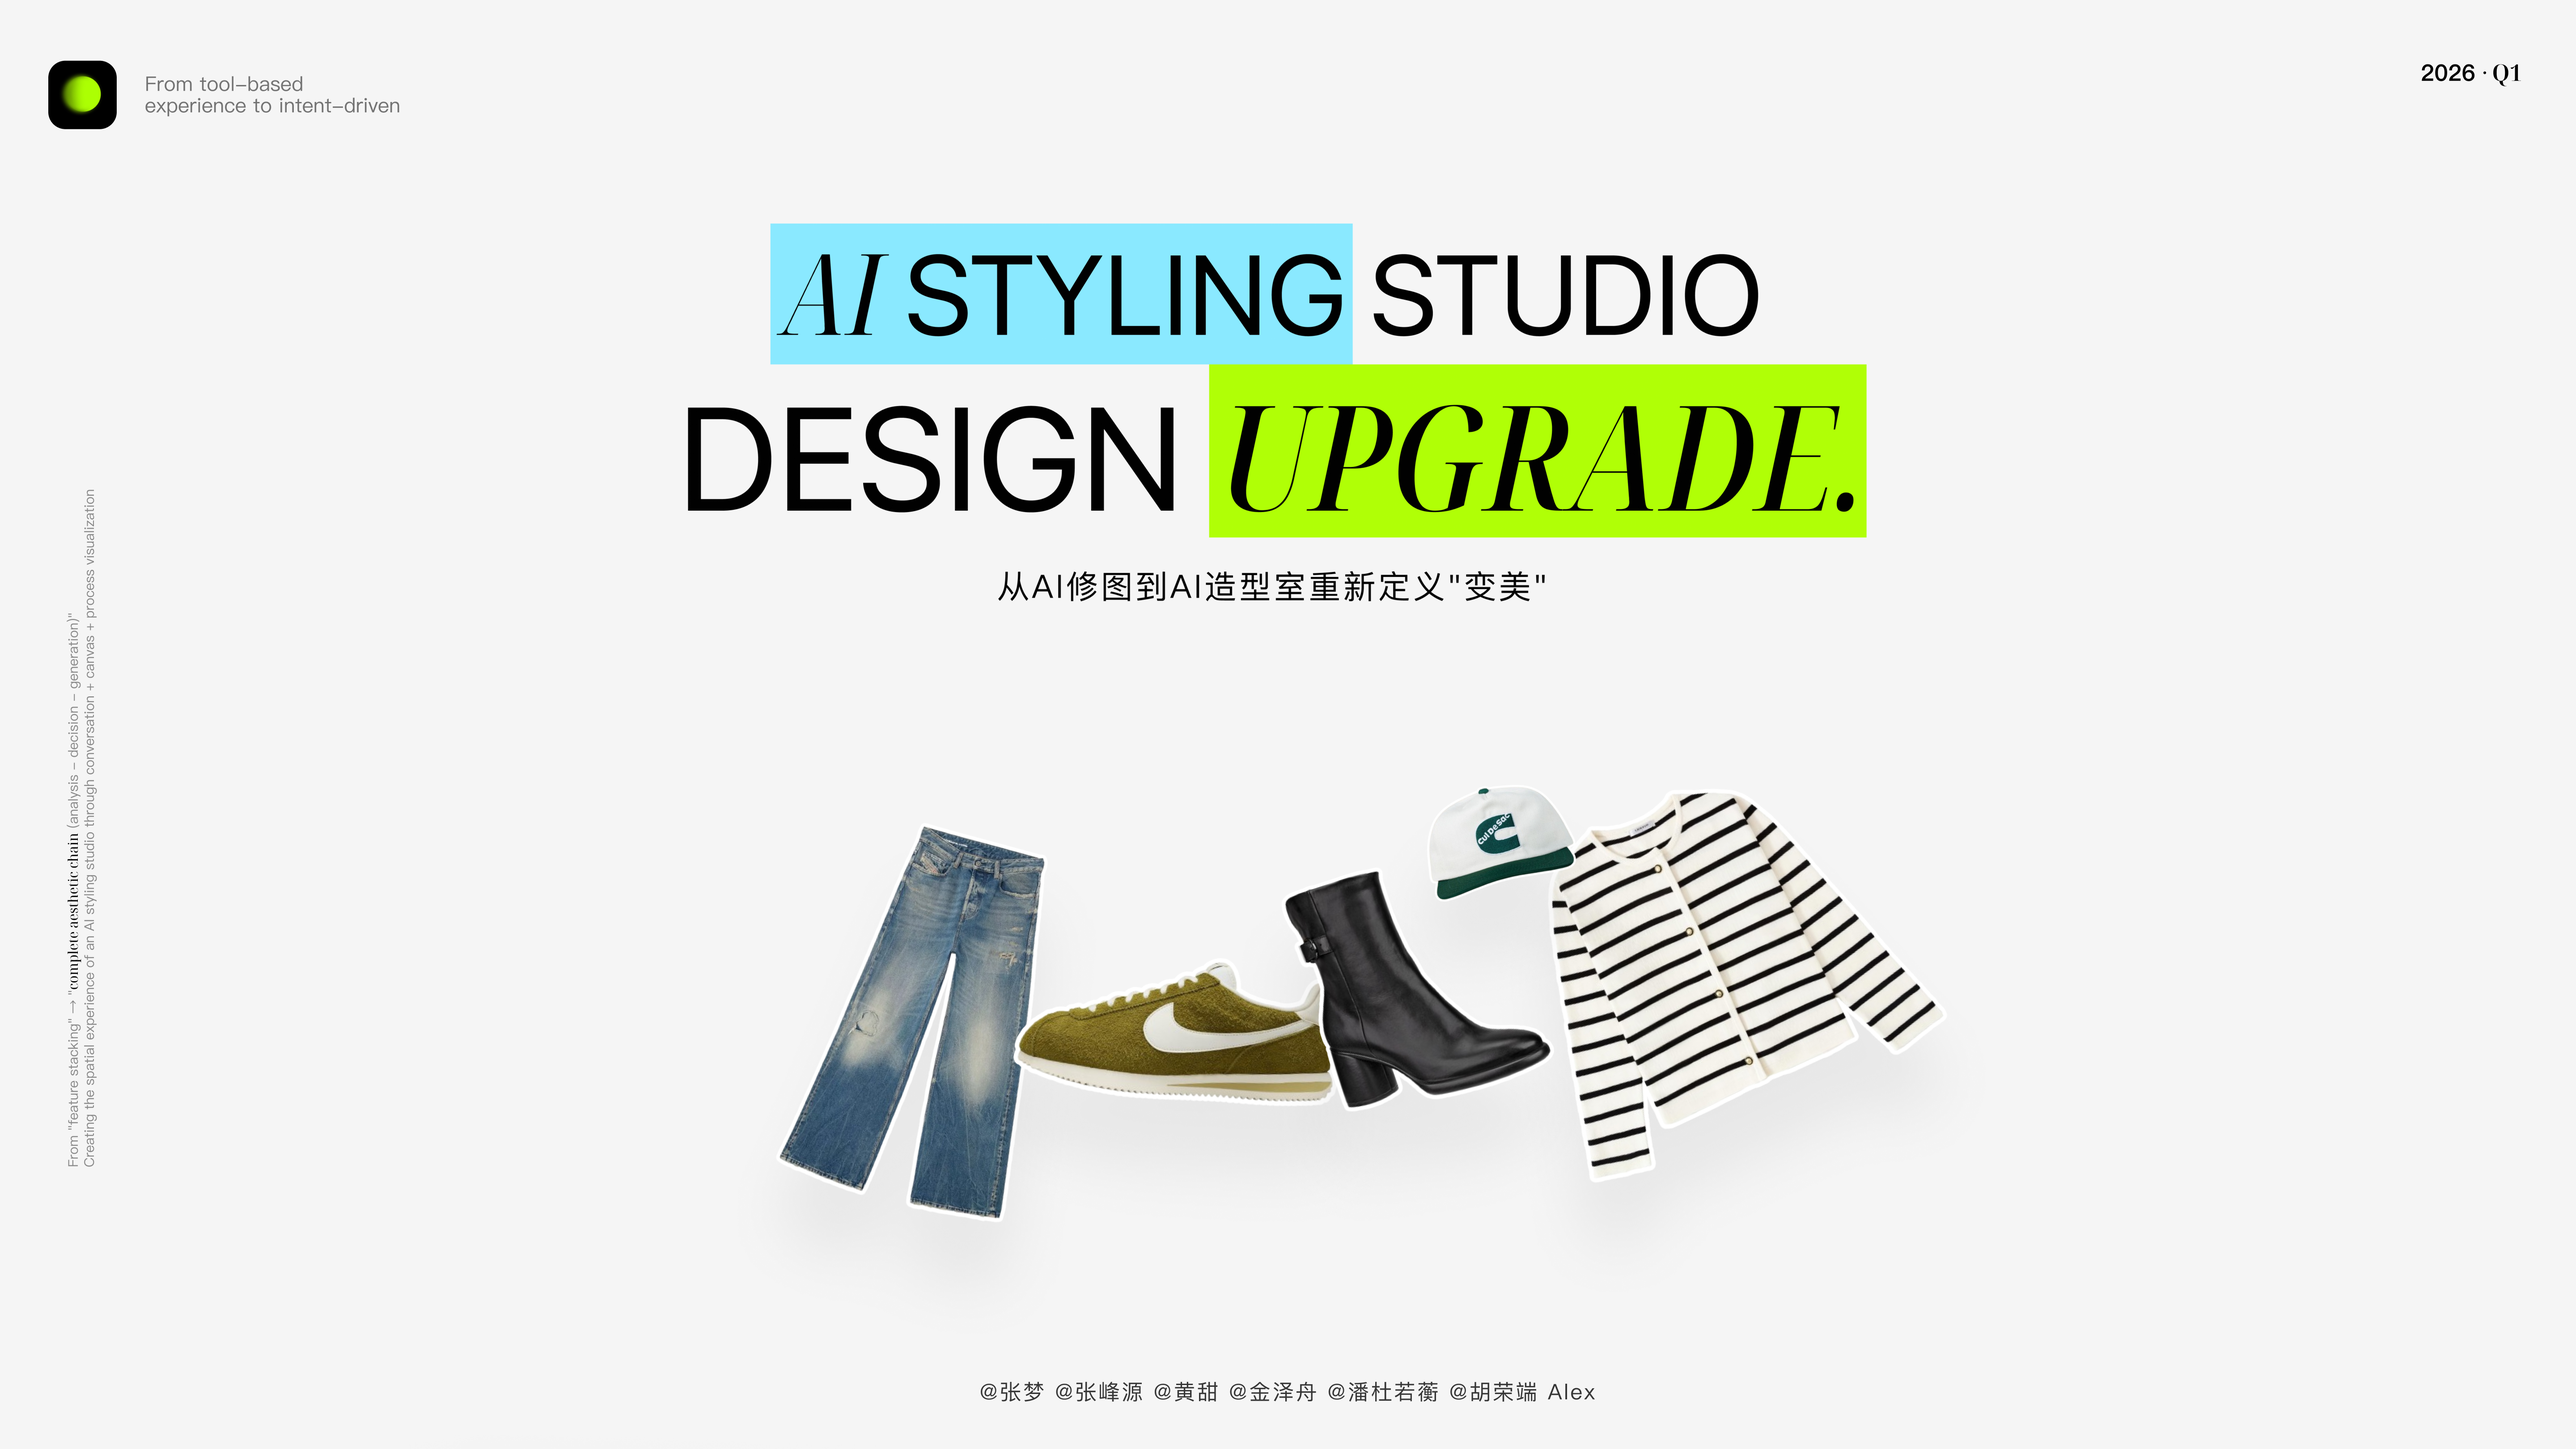
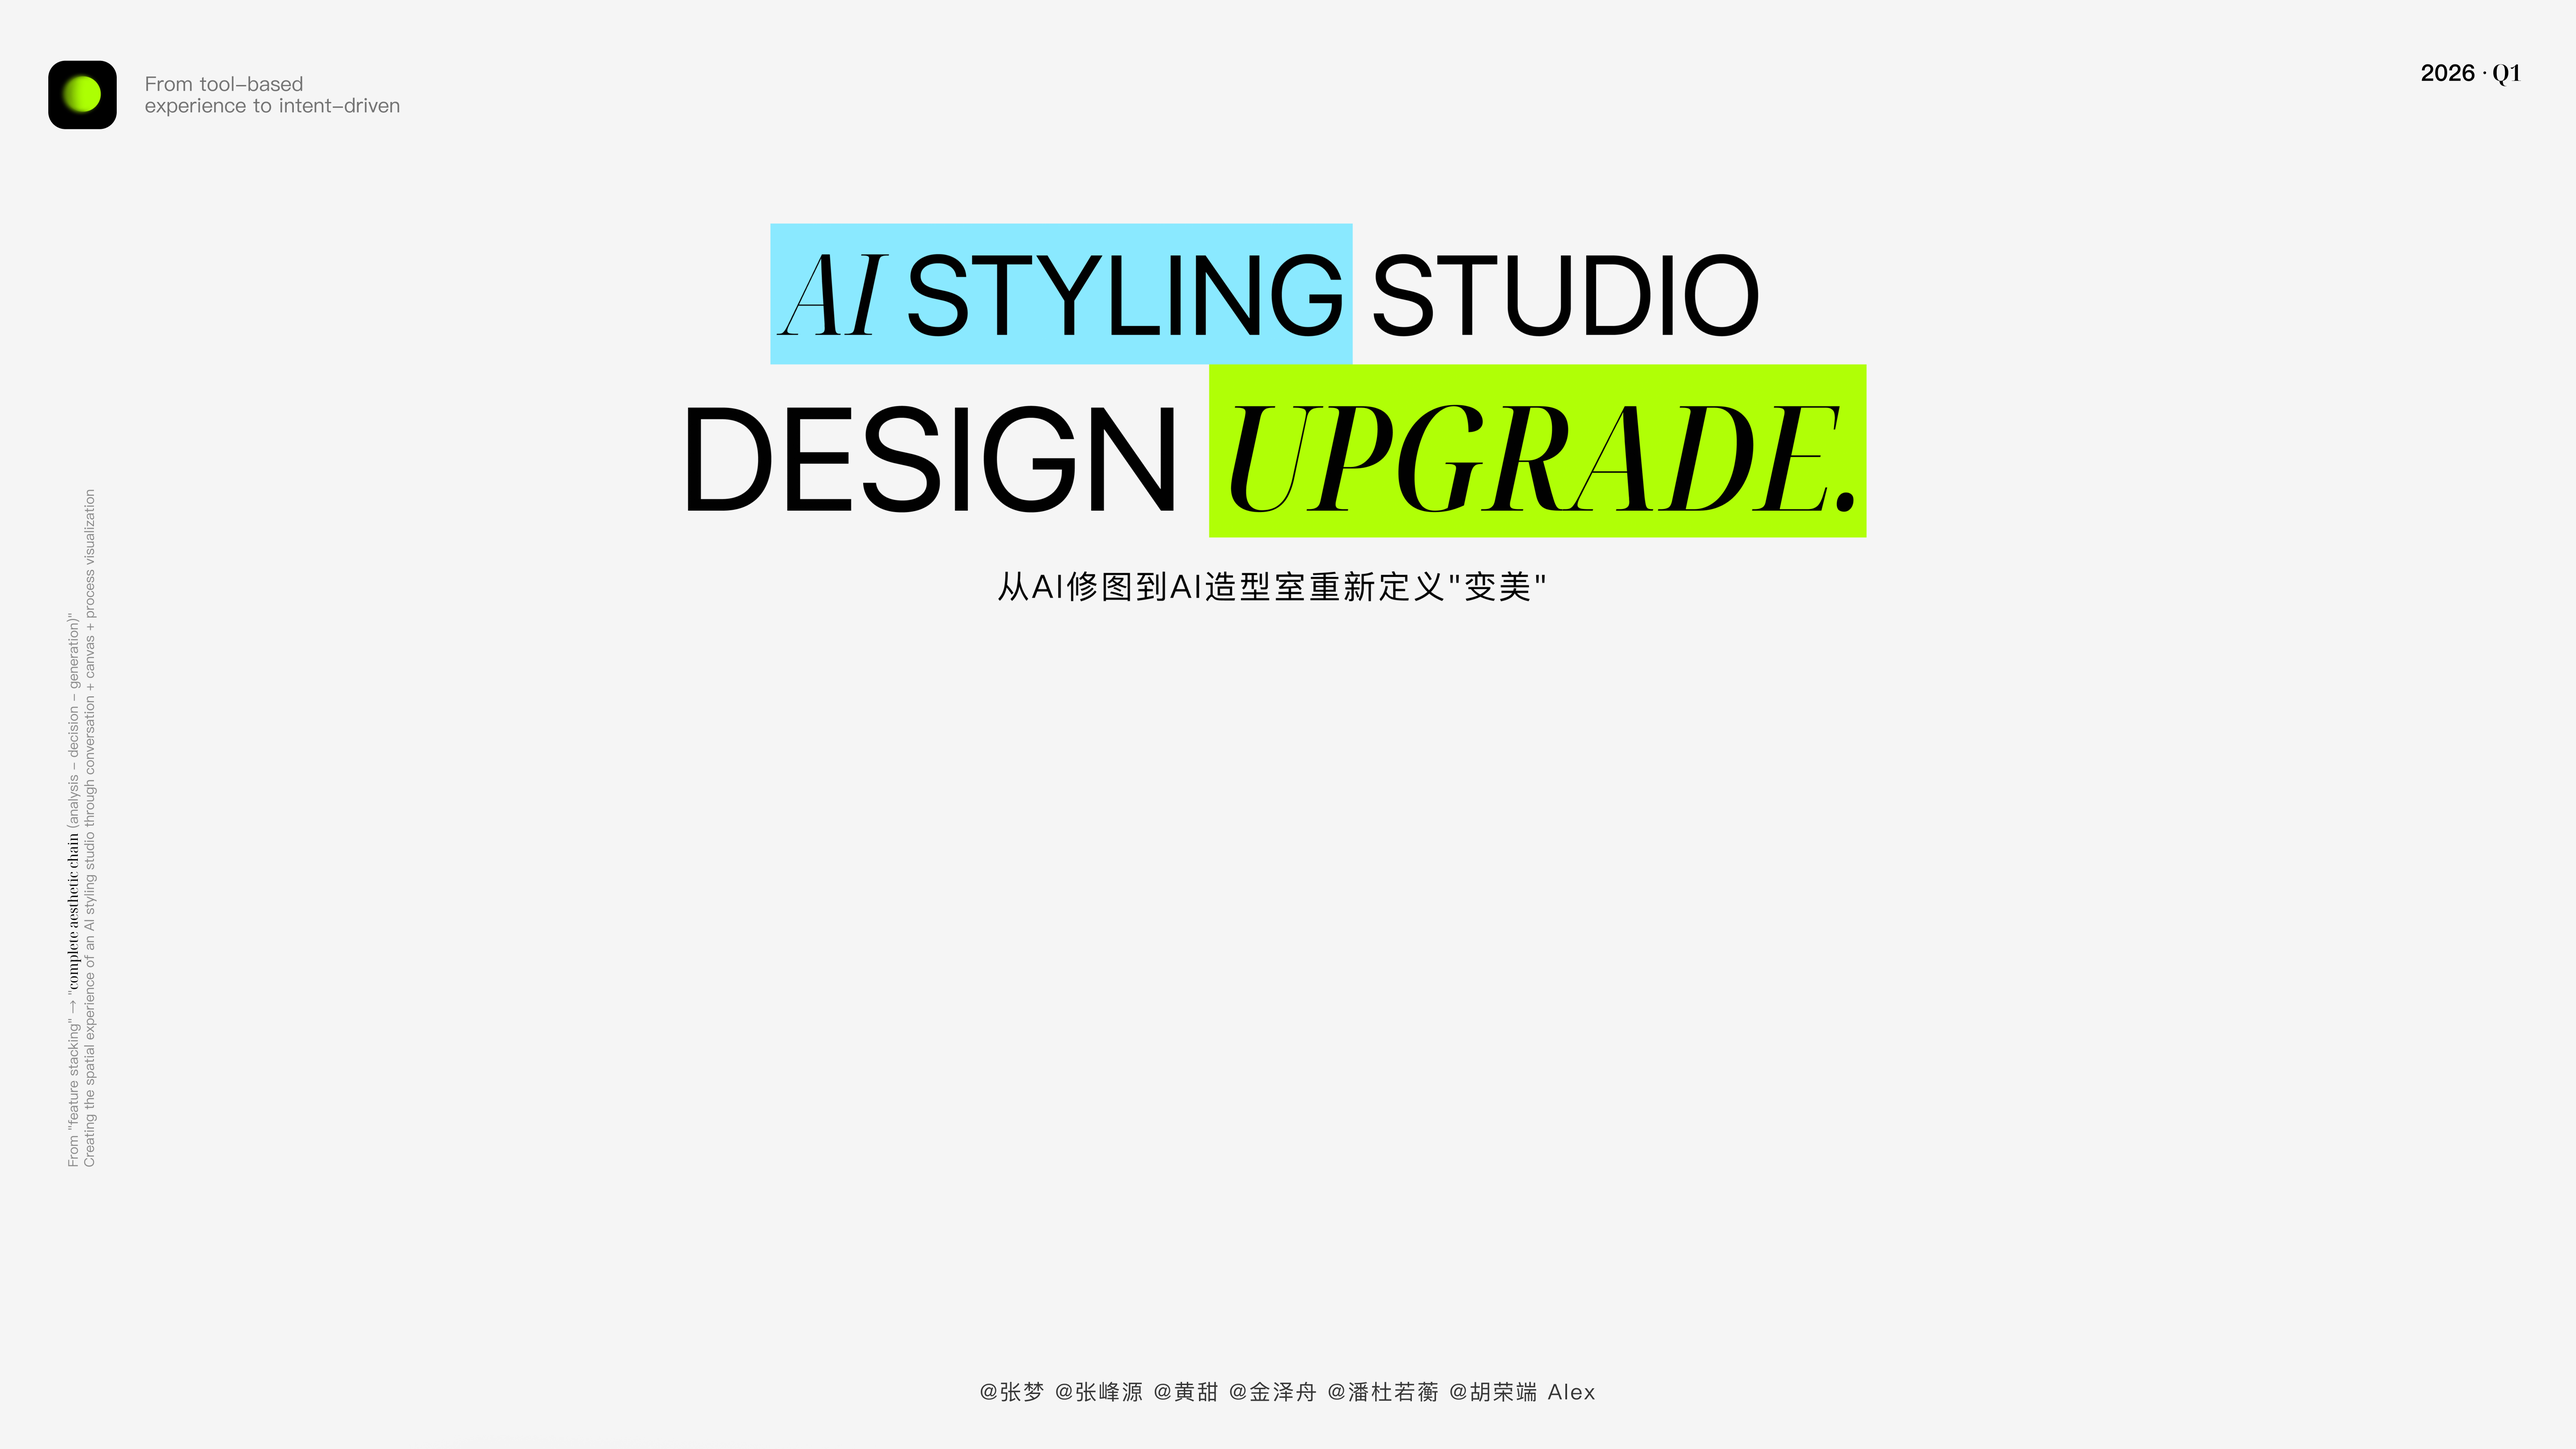
Refine hero styling and product collage

Changed region(s): [[0.2812, 0.5299, 0.75, 0.8417]]

diff --git a/index.html b/index.html
@@ -165,7 +165,7 @@
       opacity: 0;
       animation: fadeUp 0.9s var(--ease) 0.45s forwards;
       width: min(660px, 100%);
-      margin: var(--space-xxl) auto 0;
+      margin: var(--space-xl) auto 0;
       min-height: 700px;
       display: flex;
       align-items: center;
@@ -212,6 +212,9 @@
     .hero-desc-body-line {
       display: block;
       text-align: center;
+    }
+    .hero-desc-segment.is-pending {
+      opacity: 0;
     }
     .hero-desc-typed-line {
       display: block;
@@ -358,6 +361,87 @@
         opacity 0.78s cubic-bezier(0.22, 1, 0.36, 1),
         transform 0.95s cubic-bezier(0.22, 1, 0.36, 1);
     }
+    .hero-demo-objects {
+      position: absolute;
+      left: 50%;
+      bottom: 8.5%;
+      z-index: 2;
+      display: flex;
+      align-items: flex-end;
+      justify-content: center;
+      gap: 0;
+      width: min(88vw, 1280px);
+      transform: translateX(-50%) translateY(24px);
+      opacity: 0;
+      pointer-events: none;
+      transition:
+        opacity 0.75s cubic-bezier(0.22, 1, 0.36, 1),
+        transform 0.85s cubic-bezier(0.22, 1, 0.36, 1);
+    }
+    .hero-demo-object {
+      position: relative;
+      flex: 0 0 auto;
+      pointer-events: auto;
+      transform: var(--object-transform, none);
+      transform-origin: center bottom;
+      transition:
+        transform 0.42s cubic-bezier(0.22, 1, 0.36, 1),
+        filter 0.42s cubic-bezier(0.22, 1, 0.36, 1);
+      filter: none;
+      will-change: transform;
+    }
+    .hero-demo-object:hover {
+      transform: var(--object-transform, none) translateY(-12px) scale(1.08);
+      filter: none;
+      z-index: 3;
+    }
+    .hero-demo-object img {
+      display: block;
+      width: 100%;
+      height: auto;
+      user-select: none;
+      -webkit-user-drag: none;
+      pointer-events: none;
+    }
+    .hero-demo-object.object-jeans {
+      width: 222px;
+      order: 4;
+      --object-transform: rotate(-8deg) translateX(-6px) translateY(-8px);
+      z-index: 5;
+      margin-left: -7%;
+      margin-right: -5%;
+    }
+    .hero-demo-object.object-shoe {
+      width: 324px;
+      order: 1;
+      --object-transform: rotate(-7deg) translateX(-20px) translateY(14px);
+      z-index: 2;
+      margin-left: 0;
+      margin-right: -8%;
+    }
+    .hero-demo-object.object-boot {
+      width: 356px;
+      order: 2;
+      --object-transform: rotate(6deg) translateX(-8px) translateY(-2px);
+      z-index: 4;
+      margin-left: -6%;
+      margin-right: -9%;
+    }
+    .hero-demo-object.object-cap {
+      width: 371px;
+      order: 3;
+      --object-transform: rotate(-6deg) translateX(-6px) translateY(-82px);
+      z-index: 3;
+      margin-left: -6%;
+      margin-right: -8%;
+    }
+    .hero-demo-object.object-cardigan {
+      width: 403px;
+      order: 5;
+      --object-transform: rotate(8deg) translateX(-10px) translateY(14px);
+      z-index: 1;
+      margin-left: -7%;
+    }
     .hero-demo.is-ended .hero-demo-video {
       opacity: 0;
       transform: scale(0.985);
@@ -366,6 +450,10 @@
     .hero-demo.is-ended .hero-demo-image {
       opacity: 1;
       transform: scale(1);
+    }
+    .hero-demo.is-ended .hero-demo-objects {
+      opacity: 1;
+      transform: translateX(-50%) translateY(0);
     }
     .demo-bar {
       display: flex;
@@ -552,7 +640,7 @@
        FEATURE SECTIONS
     ══════════════════════════════════════ */
     .feature-steps {
-      padding: var(--space-xxl) 0;
+      padding: var(--space-xl) 0 var(--space-xxl);
     }
     .feature-steps > .container {
       max-width: calc((100vw - 160px) * 0.7);
@@ -692,6 +780,9 @@
       object-fit: contain;
       object-position: center center;
       background: #f3f3f1;
+    }
+    .feature-step-section:first-child .feature-visual-auto {
+      margin-bottom: calc(clamp(1.15rem, 1.9vw, 1.5rem) * -1);
     }
     .image-lightbox {
       position: fixed;
@@ -1288,6 +1379,14 @@
         filter: none;
         transform: none;
       }
+      .hero-demo-objects {
+        opacity: 1;
+        transform: translateX(-50%);
+      }
+      .hero-demo-object:hover {
+        transform: none;
+        filter: drop-shadow(0 22px 34px rgba(24, 24, 24, 0.08));
+      }
     }
   </style>
 </head>
@@ -1314,6 +1413,13 @@
             <source src="hero-video.mov" type="video/quicktime" />
           </video>
           <img class="hero-demo-image" src="./hero-video-end-image.png" alt="首屏结束展示图" />
+          <div class="hero-demo-objects" aria-hidden="true">
+            <div class="hero-demo-object object-jeans"><img src="./hero-item-jeans.png" alt="" /></div>
+            <div class="hero-demo-object object-shoe"><img src="./hero-item-shoe.png" alt="" /></div>
+            <div class="hero-demo-object object-boot"><img src="./hero-item-boot.png" alt="" /></div>
+            <div class="hero-demo-object object-cap"><img src="./hero-item-cap.png" alt="" /></div>
+            <div class="hero-demo-object object-cardigan"><img src="./hero-item-cardigan.png" alt="" /></div>
+          </div>
         </div>
 
         <div class="hero-desc">
@@ -1321,11 +1427,11 @@
             <div class="hero-desc-body hero-desc-body-with-icon">
               <img class="hero-desc-icon" src="./hero-desc-icon.png" alt="" aria-hidden="true" />
               <span class="hero-desc-body-line hero-desc-typed-line">
-                <strong>AI造型室</strong><span class="hero-desc-typed" data-text=" 围绕用户“"> 围绕用户“</span><span class="hero-desc-highlight-fill">变美”需求</span><span class="hero-desc-typed" data-text="，重构了从修图工具到智能美学服务的体验路径。">，重构了从修图工具到智能美学服务的体验路径。</span>
+                <strong class="hero-desc-segment hero-desc-typed" data-text="AI造型室">AI造型室</strong><span class="hero-desc-segment hero-desc-typed" data-text=" 围绕用户"> 围绕用户</span><span class="hero-desc-segment hero-desc-highlight-fill">“变美”需求</span><span class="hero-desc-segment hero-desc-typed" data-text="，">，</span><br><span class="hero-desc-segment hero-desc-typed" data-text="重构了从修图工具到智能美学服务的体验路径。">重构了从修图工具到智能美学服务的体验路径。</span>
               </span>
             </div>
             <p class="hero-desc-body hero-desc-typed-line">
-              <span class="hero-desc-typed" data-text="产品从功能入口升级为可持续运行的美学工作流，">产品从功能入口升级为可持续运行的美学工作流，</span><span class="hero-desc-highlight-fill-blue">围绕穿搭、妆造与个人档案</span><span class="hero-desc-typed" data-text="形成完整链路。">形成完整链路。</span>
+              <span class="hero-desc-segment hero-desc-typed" data-text="产品从功能入口升级为可持续运行的美学工作流，">产品从功能入口升级为可持续运行的美学工作流，</span><br><span class="hero-desc-segment hero-desc-highlight-fill-blue">围绕穿搭、妆造与个人档案</span><span class="hero-desc-segment hero-desc-typed" data-text="形成完整链路。">形成完整链路。</span>
             </p>
           </div>
         </div>
@@ -1515,6 +1621,7 @@
     const heroDesc = document.querySelector('.hero-desc');
     const heroTypedLines = Array.from(document.querySelectorAll('.hero-desc-typed-line'));
     const heroTypedNodes = Array.from(document.querySelectorAll('.hero-desc-typed'));
+    const heroDescSegments = Array.from(document.querySelectorAll('.hero-desc-segment'));
     const lightbox = document.getElementById('image-lightbox');
     const lightboxImage = document.getElementById('image-lightbox-image');
     const lightboxClose = document.getElementById('image-lightbox-close');
@@ -1529,6 +1636,9 @@
       heroTypedLines.forEach((line) => {
         line.classList.add('is-pending');
       });
+      heroDescSegments.forEach((segment) => {
+        segment.classList.add('is-pending');
+      });
       heroTypedNodes.forEach((node) => {
         node.classList.add('is-pending');
       });
@@ -1541,6 +1651,9 @@
         heroTypedLines.forEach((line) => {
           line.classList.remove('is-pending');
         });
+        heroDescSegments.forEach((segment) => {
+          segment.classList.remove('is-pending');
+        });
         heroTypedNodes.forEach((node) => {
           node.textContent = node.dataset.text || '';
           node.classList.remove('is-pending');
@@ -1550,7 +1663,7 @@
       }
 
       const lineSegments = heroTypedLines.map((line) =>
-        Array.from(line.querySelectorAll('.hero-desc-typed'))
+        Array.from(line.querySelectorAll('.hero-desc-segment'))
       );
       let lineIndex = 0;
       let segmentIndex = 0;
@@ -1560,34 +1673,48 @@
         const node = segments?.[segmentIndex];
         if (!line || !node) return;
 
-        const fullText = node.dataset.text || '';
-        let charIndex = 0;
         line.classList.remove('is-pending');
-        node.textContent = '';
         node.classList.remove('is-pending');
-        node.classList.add('is-typing');
+        if (node.classList.contains('hero-desc-typed')) {
+          const fullText = node.dataset.text || '';
+          let charIndex = 0;
+          node.textContent = '';
+          node.classList.add('is-typing');
 
-        const tick = () => {
-          charIndex += 1;
-          node.textContent = fullText.slice(0, charIndex);
-          if (charIndex < fullText.length) {
-            window.setTimeout(tick, 38);
-          } else {
-            node.classList.remove('is-typing');
-            segmentIndex += 1;
-            if (segmentIndex < segments.length) {
-              window.setTimeout(typeNextSegment, 120);
+          const tick = () => {
+            charIndex += 1;
+            node.textContent = fullText.slice(0, charIndex);
+            if (charIndex < fullText.length) {
+              window.setTimeout(tick, 38);
             } else {
-              lineIndex += 1;
-              segmentIndex = 0;
-              if (lineIndex < lineSegments.length) {
-                window.setTimeout(typeNextSegment, 180);
+              node.classList.remove('is-typing');
+              segmentIndex += 1;
+              if (segmentIndex < segments.length) {
+                window.setTimeout(typeNextSegment, 120);
+              } else {
+                lineIndex += 1;
+                segmentIndex = 0;
+                if (lineIndex < lineSegments.length) {
+                  window.setTimeout(typeNextSegment, 180);
+                }
               }
             }
-          }
-        };
+          };
 
-        tick();
+          tick();
+          return;
+        }
+
+        segmentIndex += 1;
+        if (segmentIndex < segments.length) {
+          window.setTimeout(typeNextSegment, 120);
+        } else {
+          lineIndex += 1;
+          segmentIndex = 0;
+          if (lineIndex < lineSegments.length) {
+            window.setTimeout(typeNextSegment, 180);
+          }
+        }
       };
 
       typeNextSegment();
